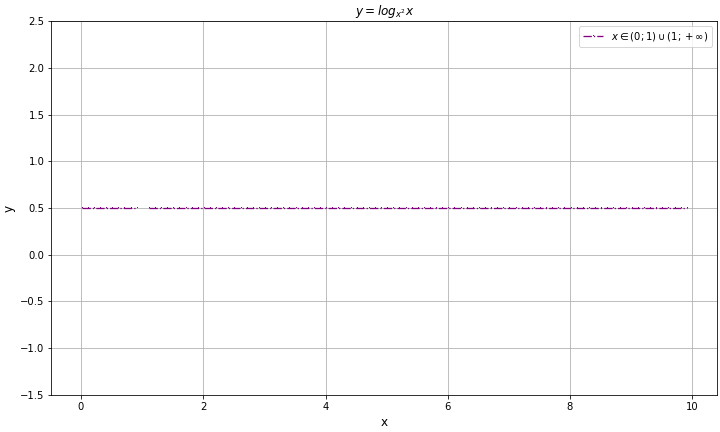
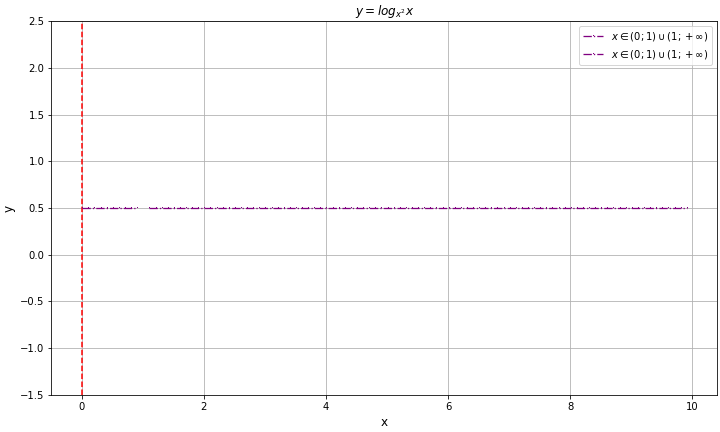
Added asymptotes

Changed region(s): [[0.7944, 0.0903, 1.0, 0.1505], [0.6111, 0.9329, 0.6417, 0.963], [0.0917, 0.9329, 0.1222, 0.963]]

diff --git a/functions_to_plot.py b/functions_to_plot.py
@@ -48,7 +48,7 @@ def func_1():
     
     x = np.arange(0.01, 10, 0.01)    
     
-    x_asymptote = None
+    x_asymptote = [0]
     
     y_asymptote = None
     
@@ -80,7 +80,7 @@ def func_2():
     
     x = np.arange(0.01, 10, 0.1)    
     
-    x_asymptote = None
+    x_asymptote = [0]
     
     y_asymptote = None
     
@@ -115,7 +115,7 @@ def func_3():
     
     x = np.arange(0.01, 10, 0.1)    
     
-    x_asymptote = None
+    x_asymptote = [0]
     
     y_asymptote = None
     
@@ -150,7 +150,7 @@ def func_4():
     
     x = np.arange(-10, 10, 0.1)    
     
-    x_asymptote = None
+    x_asymptote = [0]
     
     y_asymptote = None
     

diff --git a/data_container_class.py b/data_container_class.py
@@ -91,7 +91,7 @@ class DataContainer:
                 
                 ax.axvline(x=x_as, color="red", linestyle="--")
                 
-                if y_asymptote[0] is None:
+                if y_asymptote is None:
                     
                     ax.plot(self.x, np.ma.masked_where(self.x > x_as-0.01, self.y), **kwargs)
                     ax.plot(self.x, np.ma.masked_where(self.x < x_as+0.01, self.y), **kwargs)
